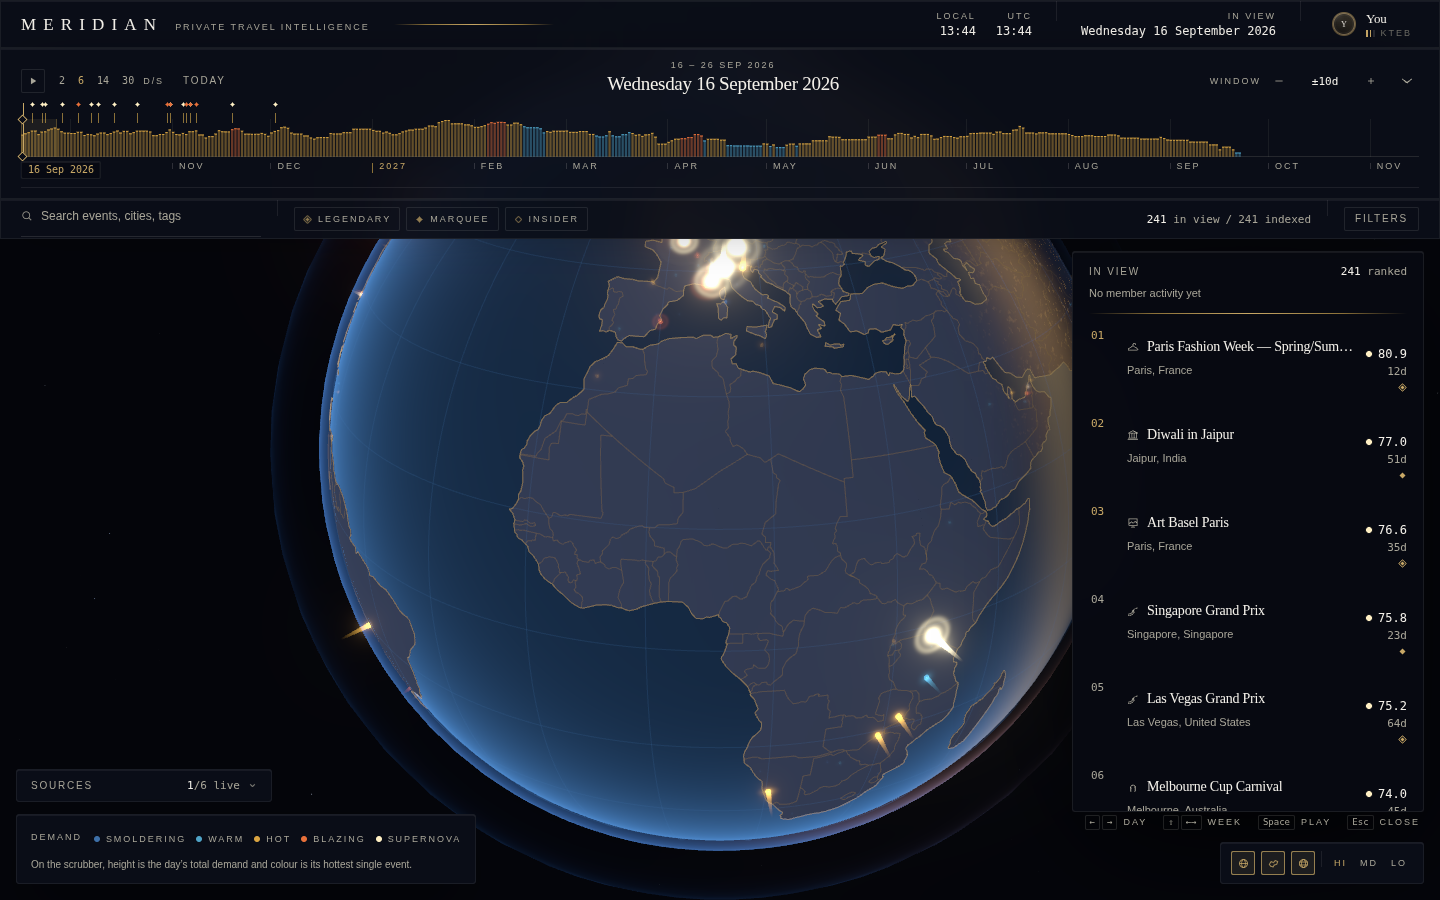
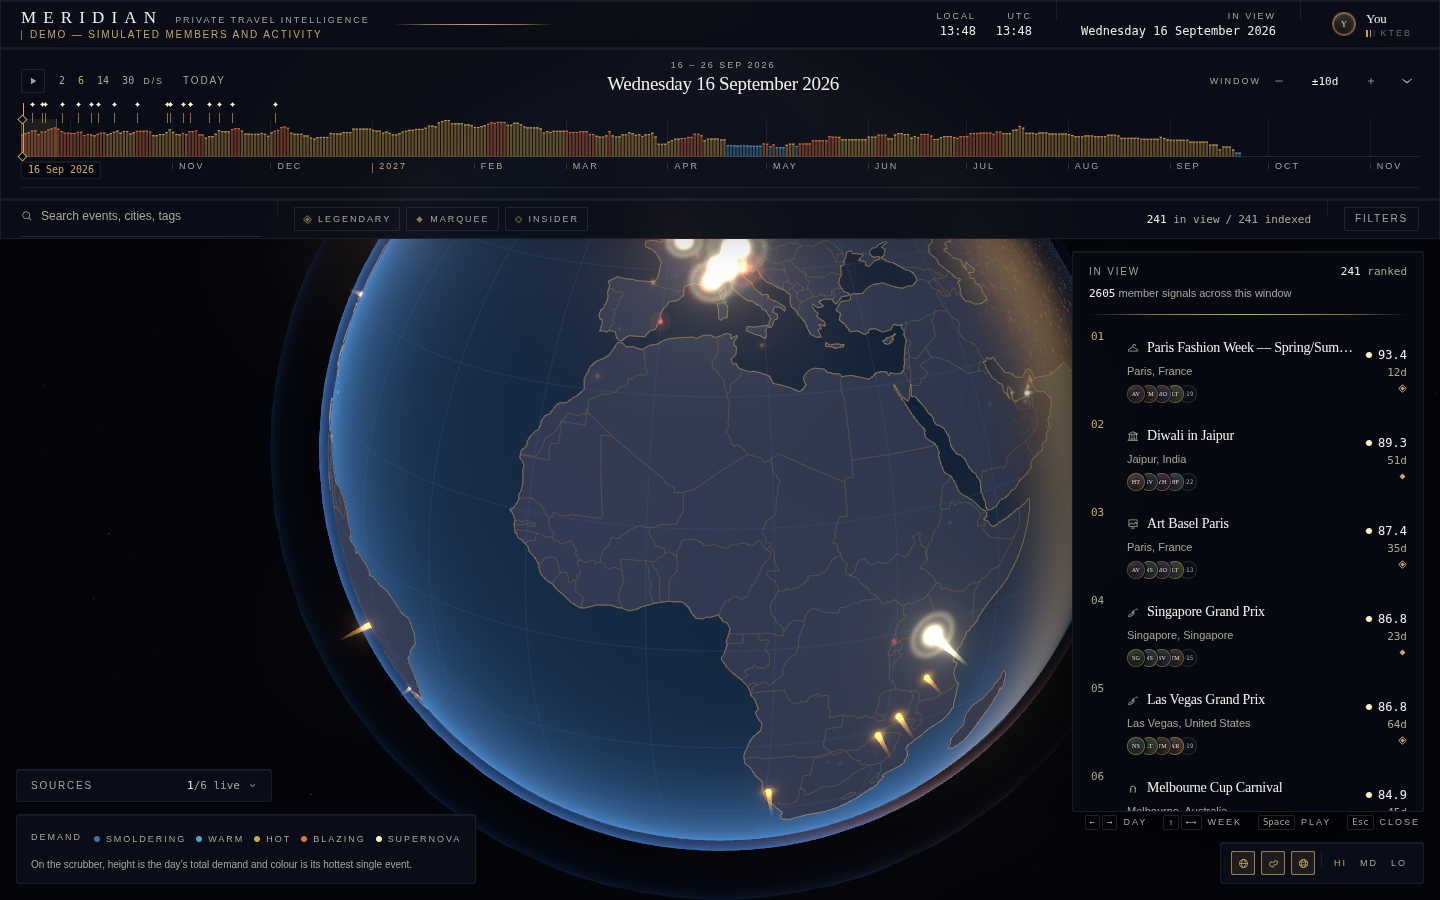
Record the production deployment and live verification
Live at world-events-map-onq7.vercel.app from 28a8de2. Verified in a real
browser: globe mounted, demo label present, 241 ranked, zero console errors;
API containment confirmed live, including the honest 503 from the
unconfigured admin refresh route.

Claude-Session: https://claude.ai/code/session_01CU1b9KCJmheZbq1GVaCLjW

diff --git a/docs/phase0/PHASE0-REPORT.md b/docs/phase0/PHASE0-REPORT.md
@@ -72,6 +72,19 @@ None.
 8. **Tooling:** ESLint pinned to 9.x because `eslint-config-next@16`'s transitive `typescript-eslint` does not support 10 yet.
 9. Browser evidence is headless software-GL; no real-device, screen-reader, or performance measurement has been taken (Phase 1/4 tickets).
 
+## Deployment (added 2026-09-16)
+
+**Live:** https://world-events-map-onq7.vercel.app — Vercel project `world-events-map-onq7` on team *matt's projects*, git-linked to `mattrob333/World-Events-Map`, production branch `main`.
+**Deployed commit:** `28a8de2`. GitHub commit status `Vercel – world-events-map-onq7: success`.
+
+Verified against the live URL (headless Chromium, `--ignore-certificate-errors` for this container's proxy CA):
+`<title>` "MERIDIAN — Private Travel Intelligence"; globe canvas mounted; no stuck loading overlay; `data-demo="true"`; masthead label rendered; 241 ranked; **0 console errors**. Screenshot: `live-production.png`.
+API: `GET /api/events` 200 (241 events, 0.4s) · `GET /api/signals?ids=…&force=1` 200 in 0.25–0.75s with `signals: {}` (cold cache, `force` ignored) · `GET /api/sources` 200 (6 sources) · `POST /api/admin/refresh` with no token → **503 "Refresh is not configured"** (honest disabled state). Geo assets all 200.
+
+**Demo mode in production:** the first build (`d6d4564`) shipped real mode — `.env.production` was in the commit but was not applied by the host; the cause was not determined from this environment. `28a8de2` makes the labelled demo the code default (`NEXT_PUBLIC_MERIDIAN_DEMO=0` is the only off switch) so production no longer depends on env-file semantics.
+
+**Housekeeping for the owner:** two additional Vercel projects in the personal account (`meridian`, `world-events-map`) were created by earlier linking attempts and are also git-linked to this repo, so every push triggers three builds. Delete both from the dashboard. The Vercel MCP connection used here is scoped to a single pre-existing project, which is why it could not see or administer `world-events-map-onq7`; custom-domain attachment therefore happens in the dashboard.
+
 ## Next smallest reviewable task
 
 **P0-F1 fix (S):** detect WebGL context creation failure in `Globe.tsx` (three does not throw) and render the existing "unsupported" fallback — one component, one browser test using `--disable-3d-apis`. Then **M-007** (occurrence + evidence schema, additive, compatibility view-model preserving `Beacon`), which unblocks M-008, M-013, M-014 and M-015.

diff --git a/README.md b/README.md
@@ -10,6 +10,8 @@ group forms the charter maths turns a $140,000 aeroplane into $17,500 a seat.
 
 ---
 
+**Live:** https://world-events-map-onq7.vercel.app (labelled demo; real accounts arrive in Phase 2)
+
 ## Running it
 
 ```bash
